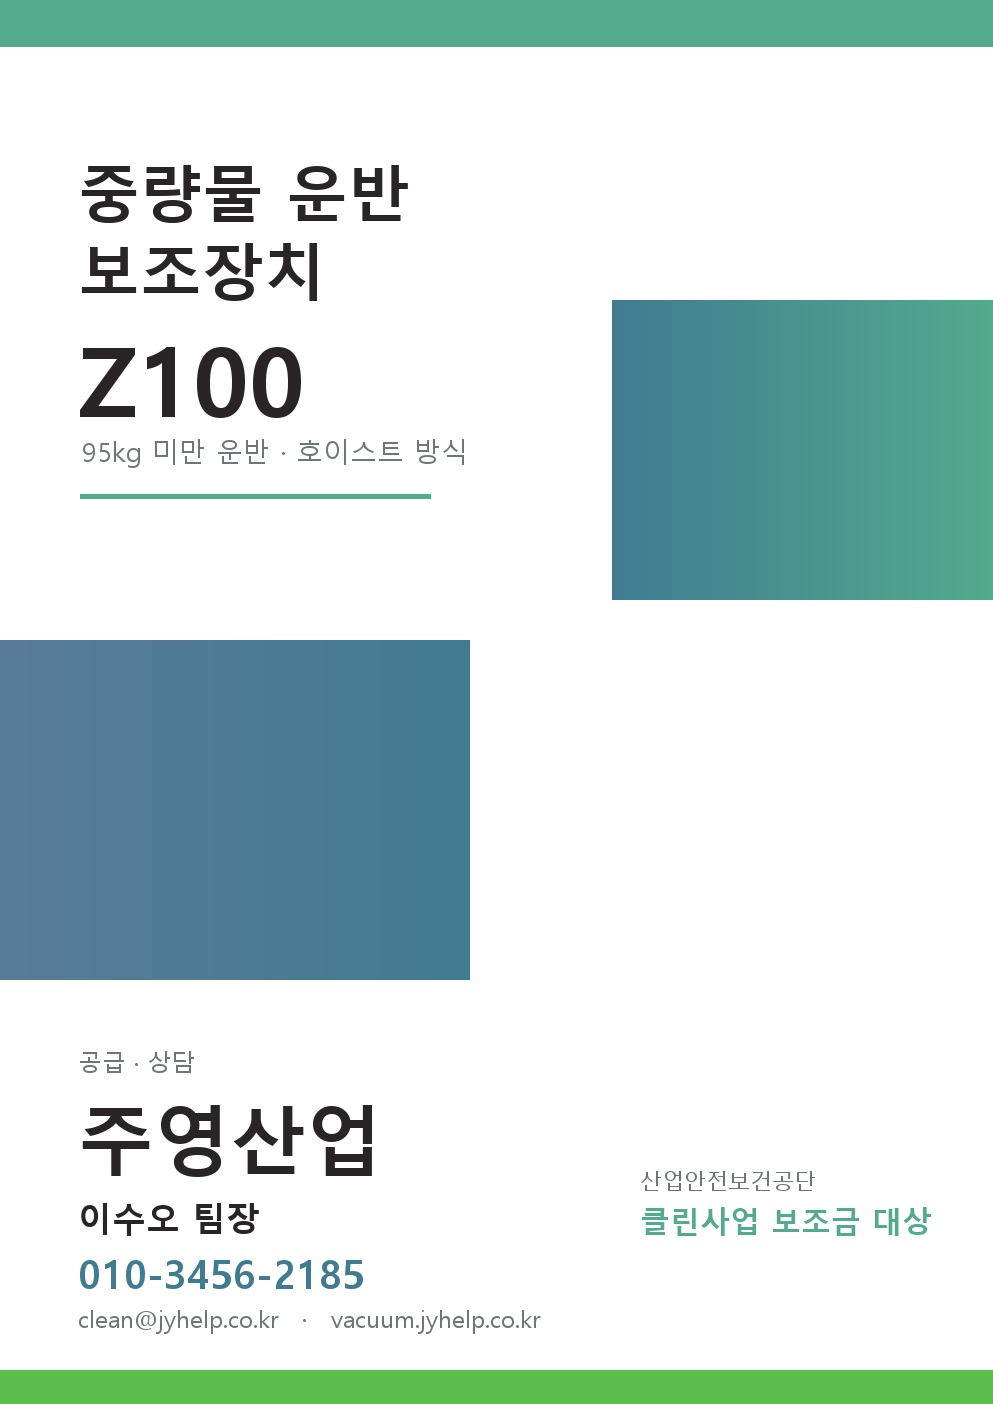
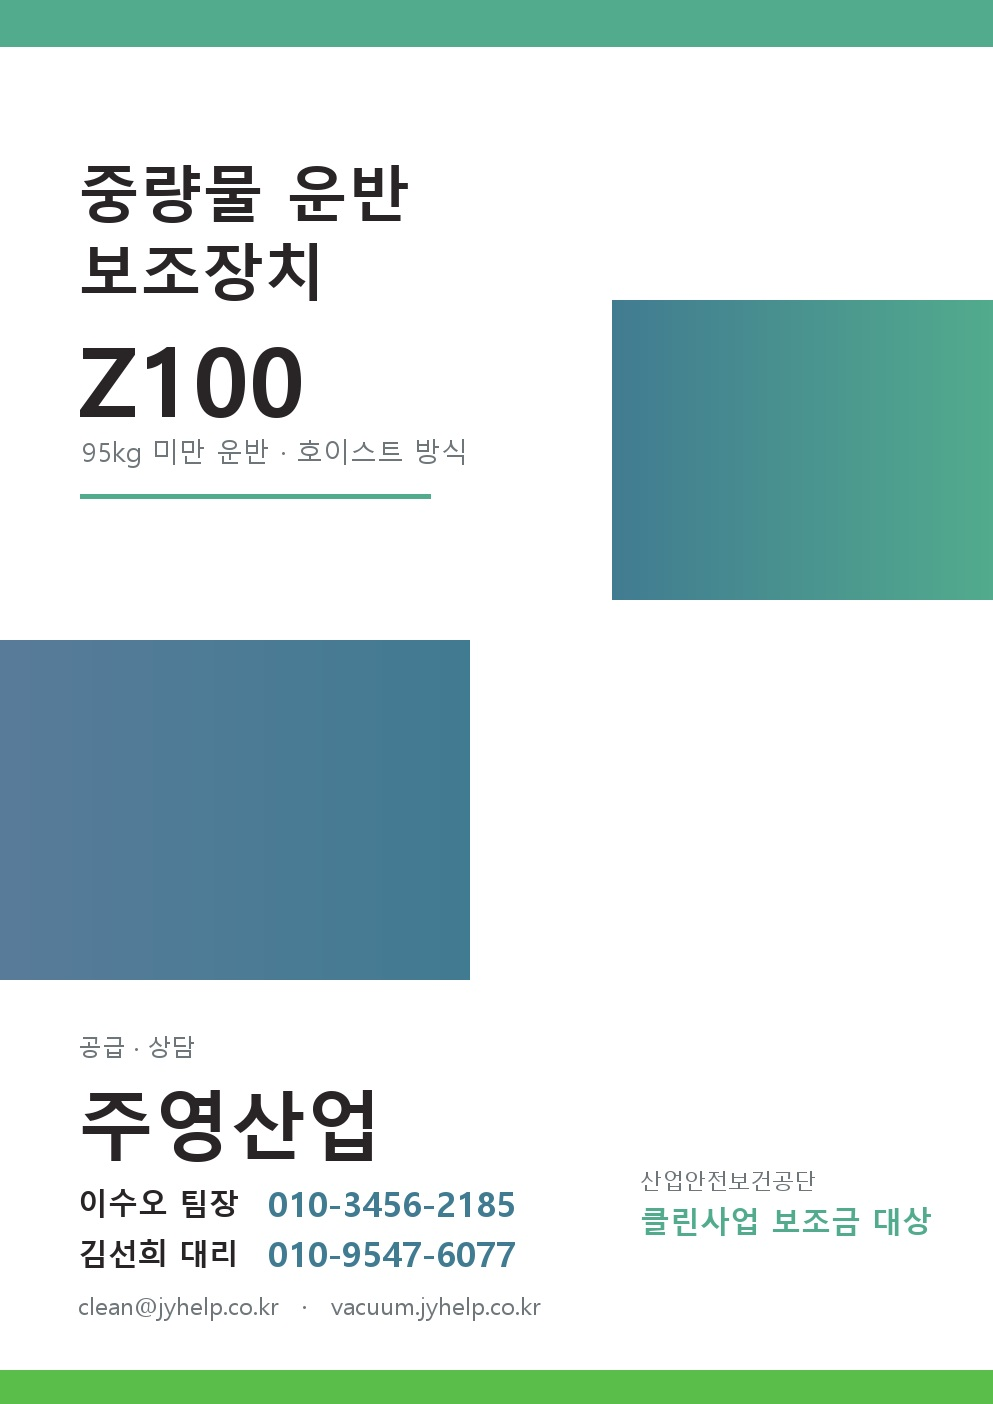
담당자 연락처에 김선희 대리 010-9547-6077 추가
페이지 하단, 표지 2장(c50/c100), Z100 뒤표지 연락처란에 모두 반영.
하단 번호는 폰에서 바로 전화 걸리도록 tel 링크로 넣음.

Changed region(s): [[0.0624, 0.735, 0.5307, 0.9494]]

diff --git a/option/index.html b/option/index.html
@@ -4,7 +4,7 @@
 <meta name="description" content="진공리프트(제트리프트) Z50·Z100 옵션별 작업 영상과 가격 · 주영산업">
 <meta property="og:type" content="website">
 <meta property="og:title" content="주영산업 진공리프트 Z50 · Z100">
-<meta property="og:description" content="옵션 18종 작업영상과 추가금액 안내 · 이수오 팀장 010-3456-2185">
+<meta property="og:description" content="옵션 18종 작업영상과 추가금액 안내 · 이수오 팀장 010-3456-2185 · 김선희 대리 010-9547-6077">
 <meta property="og:image" content="https://vacuum.jyhelp.co.kr/option/a/og-vacuum.jpg">
 <meta property="og:image:width" content="1200">
 <meta property="og:image:height" content="630">
@@ -129,7 +129,7 @@ button:focus-visible{outline:2px solid var(--accent);outline-offset:2px}
 <div class="chips" id="chips"></div>
 <div class="acc" id="acc"></div>
 <div class="mnav"><button type="button" id="mprev">‹ 이전</button><span id="mcount"></span><button type="button" id="mnext">다음 ›</button></div>
-<p class="note">「Z50·Z100(진공)」 = Z50은 기본 장착으로 바로 사용, Z100은 진공모터 옵션(1,600,000원, 제작 3개월)을 추가해야 사용 가능합니다. 진공모터 장착 시 Z100 최대 운반 가능 무게는 95kg에서 75kg로 줄어듭니다.<br>금액은 옵션 추가 금액입니다.<br><b style="color:var(--fg)">주영산업</b> · 이수오 팀장 <a href="tel:01034562185" style="color:var(--accent);font-weight:700">010-3456-2185</a></p>
+<p class="note">「Z50·Z100(진공)」 = Z50은 기본 장착으로 바로 사용, Z100은 진공모터 옵션(1,600,000원, 제작 3개월)을 추가해야 사용 가능합니다. 진공모터 장착 시 Z100 최대 운반 가능 무게는 95kg에서 75kg로 줄어듭니다.<br>금액은 옵션 추가 금액입니다.<br><b style="color:var(--fg)">주영산업</b> · 이수오 팀장 <a href="tel:01034562185" style="color:var(--accent);font-weight:700">010-3456-2185</a> · 김선희 대리 <a href="tel:01095476077" style="color:var(--accent);font-weight:700">010-9547-6077</a></p>
 </div>
 <script>
 const OPTS=[{"name": "Z50 카탈로그 (50kg 미만 운반, 진공흡입방식)", "price": "", "basic": true, "label": "카탈로그", "desc": "진공식 중량물 운반 보조장치 Z50 · 시스템 구조, 사진 설명, 크기·높이, 옵션, 상세 사양 (총 12쪽)", "id": "", "cat": ["a/c50.jpg", "a/i02.jpg", "a/i03.jpg", "a/i04.jpg", "a/i05.jpg", "a/i06.jpg", "a/i07.jpg", "a/i08.jpg", "a/i09.jpg", "a/i10.jpg", "a/i11.jpg", "a/i12.jpg"], "img": "", "mname": "Z50 카탈로그", "fs": "50kg 미만·진공흡입", "grp": "카탈로그 · 기본"}, {"name": "Z100 카탈로그 (95kg 미만 운반, 호이스트방식)", "price": "", "basic": true, "label": "카탈로그", "desc": "후크식 중량물 운반 보조장치 Z100 · 핵심 기술·작동 원리, 상세 도면, 장점, 상세 사양 (총 12쪽)", "id": "", "cat": ["a/c100.jpg", "a/i13.jpg", "a/i14.jpg", "a/i15.jpg", "a/i16.jpg", "a/i17.jpg", "a/i18.jpg", "a/i19.jpg", "a/i20.jpg", "a/i21.jpg", "a/i22.jpg", "a/i23.jpg"], "img": "", "mname": "Z100 카탈로그", "fs": "95kg 미만·호이스트", "grp": "카탈로그 · 기본"}, {"name": "장비 이동", "price": "", "desc": "제트리프트는 핸드파렛트로 장비 전체를 들어 원하는 작업 위치로 옮길 수 있습니다.", "id": "", "img": "a/i24.jpg", "mp4": "a/v01.mp4", "poster": "a/i25.jpg", "basic": true, "grp": "카탈로그 · 기본"}, {"name": "진공모터 옵션", "price": "1,600,000", "desc": "Z100에 진공모터를 달아 진공 흡착 그리퍼를 쓸 수 있게 하는 옵션 · 장착 시 최대 운반 가능 무게가 95kg에서 75kg로 줄어듭니다. 제작 기간 약 3개월", "fit": "Z100 전용 (제작 3개월 소요) · Z50은 기본 장착 사용", "fs": "Z100용", "id": "", "img": "", "photo": "a/i26.jpg", "grp": "Z50 기본 사용 · Z100은 진공모터 옵션 필요"}, {"name": "박스 작업용", "price": "기본제공", "desc": "중간에 테이프가 없는 박스", "id": "", "img": "a/i27.jpg", "mp4": "a/v02.mp4", "poster": "a/i28.jpg", "fit": "Z50 (기본 장착 사용) · Z100 (진공모터 옵션 추가 시, 최대 75kg)", "fs": "Z50·Z100(진공)", "grp": "Z50 기본 사용 · Z100은 진공모터 옵션 필요"}, {"name": "포대 운반용", "price": "500,000", "desc": "밀가루 포대 · 시멘트 포대", "id": "", "img": "a/i29.jpg", "mp4": "a/v03.mp4", "poster": "a/i30.jpg", "fit": "Z50 (기본 장착 사용) · Z100 (진공모터 옵션 추가 시, 최대 75kg)", "fs": "Z50·Z100(진공)", "grp": "Z50 기본 사용 · Z100은 진공모터 옵션 필요"}, {"name": "2구 박스 그리퍼", "price": "600,000", "desc": "중간에 테이프가 있는 박스", "id": "", "img": "a/i31.jpg", "mp4": "a/v04.mp4", "poster": "a/i32.jpg", "fit": "Z50 (기본 장착 사용) · Z100 (진공모터 옵션 추가 시, 최대 75kg)", "fs": "Z50·Z100(진공)", "grp": "Z50 기본 사용 · Z100은 진공모터 옵션 필요"}, {"name": "4구 그리퍼 (크기 조절 가능)", "price": "1,400,000", "desc": "사이즈가 큰 판재 · 1250 × 530mm (제품마다 가변 조절)", "id": "", "img": "a/i33.jpg", "mp4": "a/v05.mp4", "poster": "a/i34.jpg", "fit": "Z50 (기본 장착 사용) · Z100 (진공모터 옵션 추가 시, 최대 75kg)", "fs": "Z50·Z100(진공)", "mname": "4구 조절 그리퍼", "grp": "Z50 기본 사용 · Z100은 진공모터 옵션 필요"}, {"name": "4구 판재 운반용", "price": "1,000,000", "desc": "사이즈가 큰 판재 · 1250 × 530mm", "id": "", "img": "a/i35.jpg", "mp4": "a/v06.mp4", "poster": "a/i36.jpg", "fit": "Z50 (기본 장착 사용) · Z100 (진공모터 옵션 추가 시, 최대 75kg)", "fs": "Z50·Z100(진공)", "grp": "Z50 기본 사용 · Z100은 진공모터 옵션 필요"}, {"name": "틸팅 옵션 (맞춤 제작)", "price": "1,500,000", "desc": "헤드가 유연하게 움직여야 하는 현장 · 90도 틸팅 가능", "id": "", "img": "a/i37.jpg", "mp4": "a/v07.mp4", "poster": "a/i38.jpg", "fit": "Z50 (기본 장착 사용) · Z100 (진공모터 옵션 추가 시, 최대 75kg)", "fs": "Z50·Z100(진공)", "mname": "틸팅 (맞춤 제작)", "grp": "Z50 기본 사용 · Z100은 진공모터 옵션 필요"}, {"name": "하이라이즈 옵션", "price": "1,000,000", "desc": "적재 높이 2000mm 이상 · 4구 조절 그리퍼 사용 · 메인 기둥 프레임 주문제작", "id": "", "img": "a/i39.jpg", "mp4": "a/v08.mp4", "poster": "a/i40.jpg", "fit": "Z50 (기본 장착 사용) · Z100 (진공모터 옵션 추가 시, 최대 75kg)", "fs": "Z50·Z100(진공)", "grp": "Z50 기본 사용 · Z100은 진공모터 옵션 필요"}, {"name": "사각 철통(캔) 그리퍼", "price": "1,000,000", "desc": "사각 철통·캔을 잡아서 파렛트에 그대로 쌓고 옮김 · 도료·식용유·원료 공장", "id": "", "mp4": "a/v09.mp4", "poster": "a/i41.jpg", "img": "a/i42.jpg", "fit": "Z50 (기본 장착 사용) · Z100 (진공모터 옵션 추가 시, 최대 75kg)", "fs": "Z50·Z100(진공)", "mname": "사각 철통 그리퍼", "grp": "Z50 기본 사용 · Z100은 진공모터 옵션 필요"}, {"name": "플라스틱 박스 운반용", "price": "1,400,000", "desc": "사이즈 조절 가능", "id": "", "img": "a/i43.jpg", "mp4": "a/v10.mp4", "poster": "a/i44.jpg", "fit": "Z50 · Z100 (둘 다 바로 사용)", "fs": "Z50·Z100", "grp": "Z50 · Z100 공통"}, {"name": "마대 작업용", "price": "800,000", "desc": "마대 · 자루 운반", "id": "", "img": "a/i45.jpg", "mp4": "a/v11.mp4", "poster": "a/i46.jpg", "fit": "Z50 · Z100 (둘 다 바로 사용)", "fs": "Z50·Z100", "grp": "Z50 · Z100 공통"}, {"name": "마대 작업용 ver.2", "price": "1,600,000", "desc": "마대·자루를 집게로 물어서 들어 올리는 개선형 마대 옵션", "id": "", "img": "a/i47.jpg", "mp4": "a/v12.mp4", "poster": "a/i48.jpg", "fit": "Z50 · Z100 (둘 다 바로 사용)", "fs": "Z50·Z100", "grp": "Z50 · Z100 공통"}, {"name": "롤(원단) 그리퍼", "price": "1,000,000", "desc": "원단·카펫 등 긴 롤을 잡아서 눕힌 채로 들어 옮김 · 롤 보관 창고·원단 공장", "id": "", "img": "a/i49.jpg", "mp4": "a/v13.mp4", "poster": "a/i50.jpg", "fit": "Z50 · Z100 (둘 다 바로 사용)", "fs": "Z50·Z100", "grp": "Z50 · Z100 공통"}, {"name": "후크 고리 작업용", "price": "300,000", "desc": "고리로 들어 올려야 하는 제품", "id": "", "img": "a/i51.jpg", "mp4": "a/v14.mp4", "poster": "a/i52.jpg", "fit": "Z50 (비용 발생) · Z100 (기본)", "fs": "Z50유상·Z100기본", "grp": "Z50 · Z100 공통"}, {"name": "에어그리퍼", "price": "1,600,000", "desc": "공압(에어) 집게가 포대·마대 윗부분을 물어서 들어 올림 · 그리퍼 폭 200mm, 집게 벌림 138mm", "id": "", "img": "a/i53.jpg", "mp4": "a/v15.mp4", "poster": "a/i54.jpg", "fit": "Z100", "fs": "Z100", "grp": "Z100 전용"}, {"name": "배터리 크램프", "price": "1,600,000", "desc": "배터리 양옆을 크램프로 잡아서 들어 올림 · 작업 크기에 맞춰 주문 생산 가능", "id": "", "img": "a/i55.jpg", "mp4": "a/v16.mp4", "poster": "a/i56.jpg", "fit": "Z100", "fs": "Z100", "grp": "Z100 전용"}, {"name": "스텐 원형 식깡 그리퍼", "price": "1,600,000", "desc": "스테인리스 원형 식깡(들통)을 옆에서 잡아 들어 올림 · 식품 공장 등 통 운반 작업", "id": "", "img": "a/i57.jpg", "mp4": "a/v17.mp4", "poster": "a/i58.jpg", "fit": "Z100", "fs": "Z100", "grp": "Z100 전용"}, {"name": "마그네틱 옵션", "price": "600,000", "desc": "자석으로 철제 각관·파이프·철판을 붙여서 들어 올림 · 철강·금속 가공 공장", "id": "", "img": "a/i59.jpg", "mp4": "a/v18.mp4", "poster": "a/i60.jpg", "fit": "Z100", "fs": "Z100", "grp": "Z100 전용"}];
